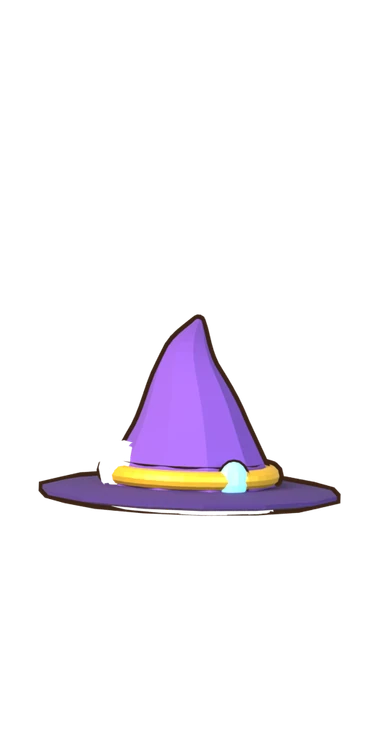
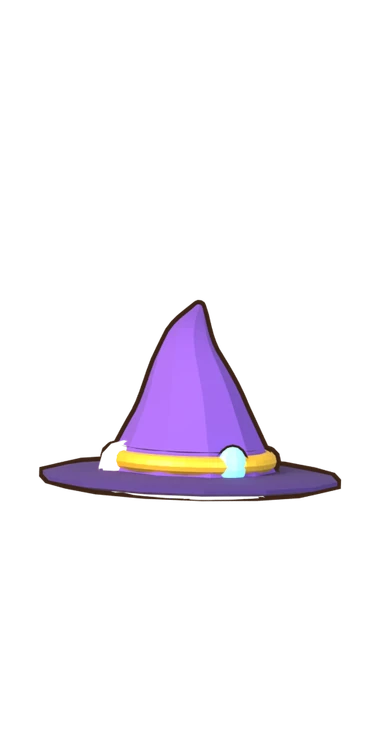
art(gear): 마법사 모자를 올려 챙이 눈을 안 가리게

Changed region(s): [[0.0875, 0.3966, 0.9045, 0.7016]]

diff --git a/art-gen/blender/hero_gear.py b/art-gen/blender/hero_gear.py
@@ -83,11 +83,11 @@ def helmet(k, S):
         fp = spline([HEAD + Vector((0.26, 0.0, 0.2)), HEAD + Vector((0.38, 0.02, 0.38)), HEAD + Vector((0.4, 0.06, 0.56))], 10)
         put(g, b, 'feather', C.tube(fp, interp([0.018, 0.05, 0.008], len(fp)), seg=6), mat('feather', '#f1e4c8'))
     else:   # 마법사 모자 — 넓은 챙 · 꺾인 고깔 · 금 띠 · 빛나는 보석
-        put(g, b, 'brim', C.ellipsoid(HEAD + Vector((0, 0.0, 0.17)), (0.47, 0.45, 0.035)), mat('brim', S['dark'], rough=0.85))
-        pts = spline([HEAD + Vector((0, 0, 0.18)), HEAD + Vector((0, 0.01, 0.38)), HEAD + Vector((0.02, 0.07, 0.56)), HEAD + Vector((0.12, 0.17, 0.68))], 16)
+        put(g, b, 'brim', C.ellipsoid(HEAD + Vector((0, 0.0, 0.215)), (0.47, 0.45, 0.035)), mat('brim', S['dark'], rough=0.85))
+        pts = spline([HEAD + Vector((0, 0, 0.225)), HEAD + Vector((0, 0.01, 0.425)), HEAD + Vector((0.02, 0.07, 0.605)), HEAD + Vector((0.12, 0.17, 0.725))], 16)
         put(g, b, 'cone', C.tube(pts, interp([0.27, 0.17, 0.085, 0.01], len(pts)), seg=10), mat('cone', S['main'], rough=0.85))
-        put(g, b, 'band', C.torus(HEAD + Vector((0, 0, 0.23)), 0.245, 0.03), metal_m(S['trim']))
-        put(g, b, 'gem', C.ellipsoid(HEAD + Vector((0, -0.25, 0.23)), (0.05, 0.03, 0.06)), mat('gem', S['gem'], rough=0.25, emit=S['gem'], es=0.6), O * 0.6)
+        put(g, b, 'band', C.torus(HEAD + Vector((0, 0, 0.275)), 0.235, 0.03), metal_m(S['trim']))
+        put(g, b, 'gem', C.ellipsoid(HEAD + Vector((0, -0.24, 0.275)), (0.05, 0.03, 0.06)), mat('gem', S['gem'], rough=0.25, emit=S['gem'], es=0.6), O * 0.6)
 
 
 # ── 갑옷 ── 몸 앞을 덮는 껍데기. 머리 아래 턱선 위로는 올라가지 않는다
